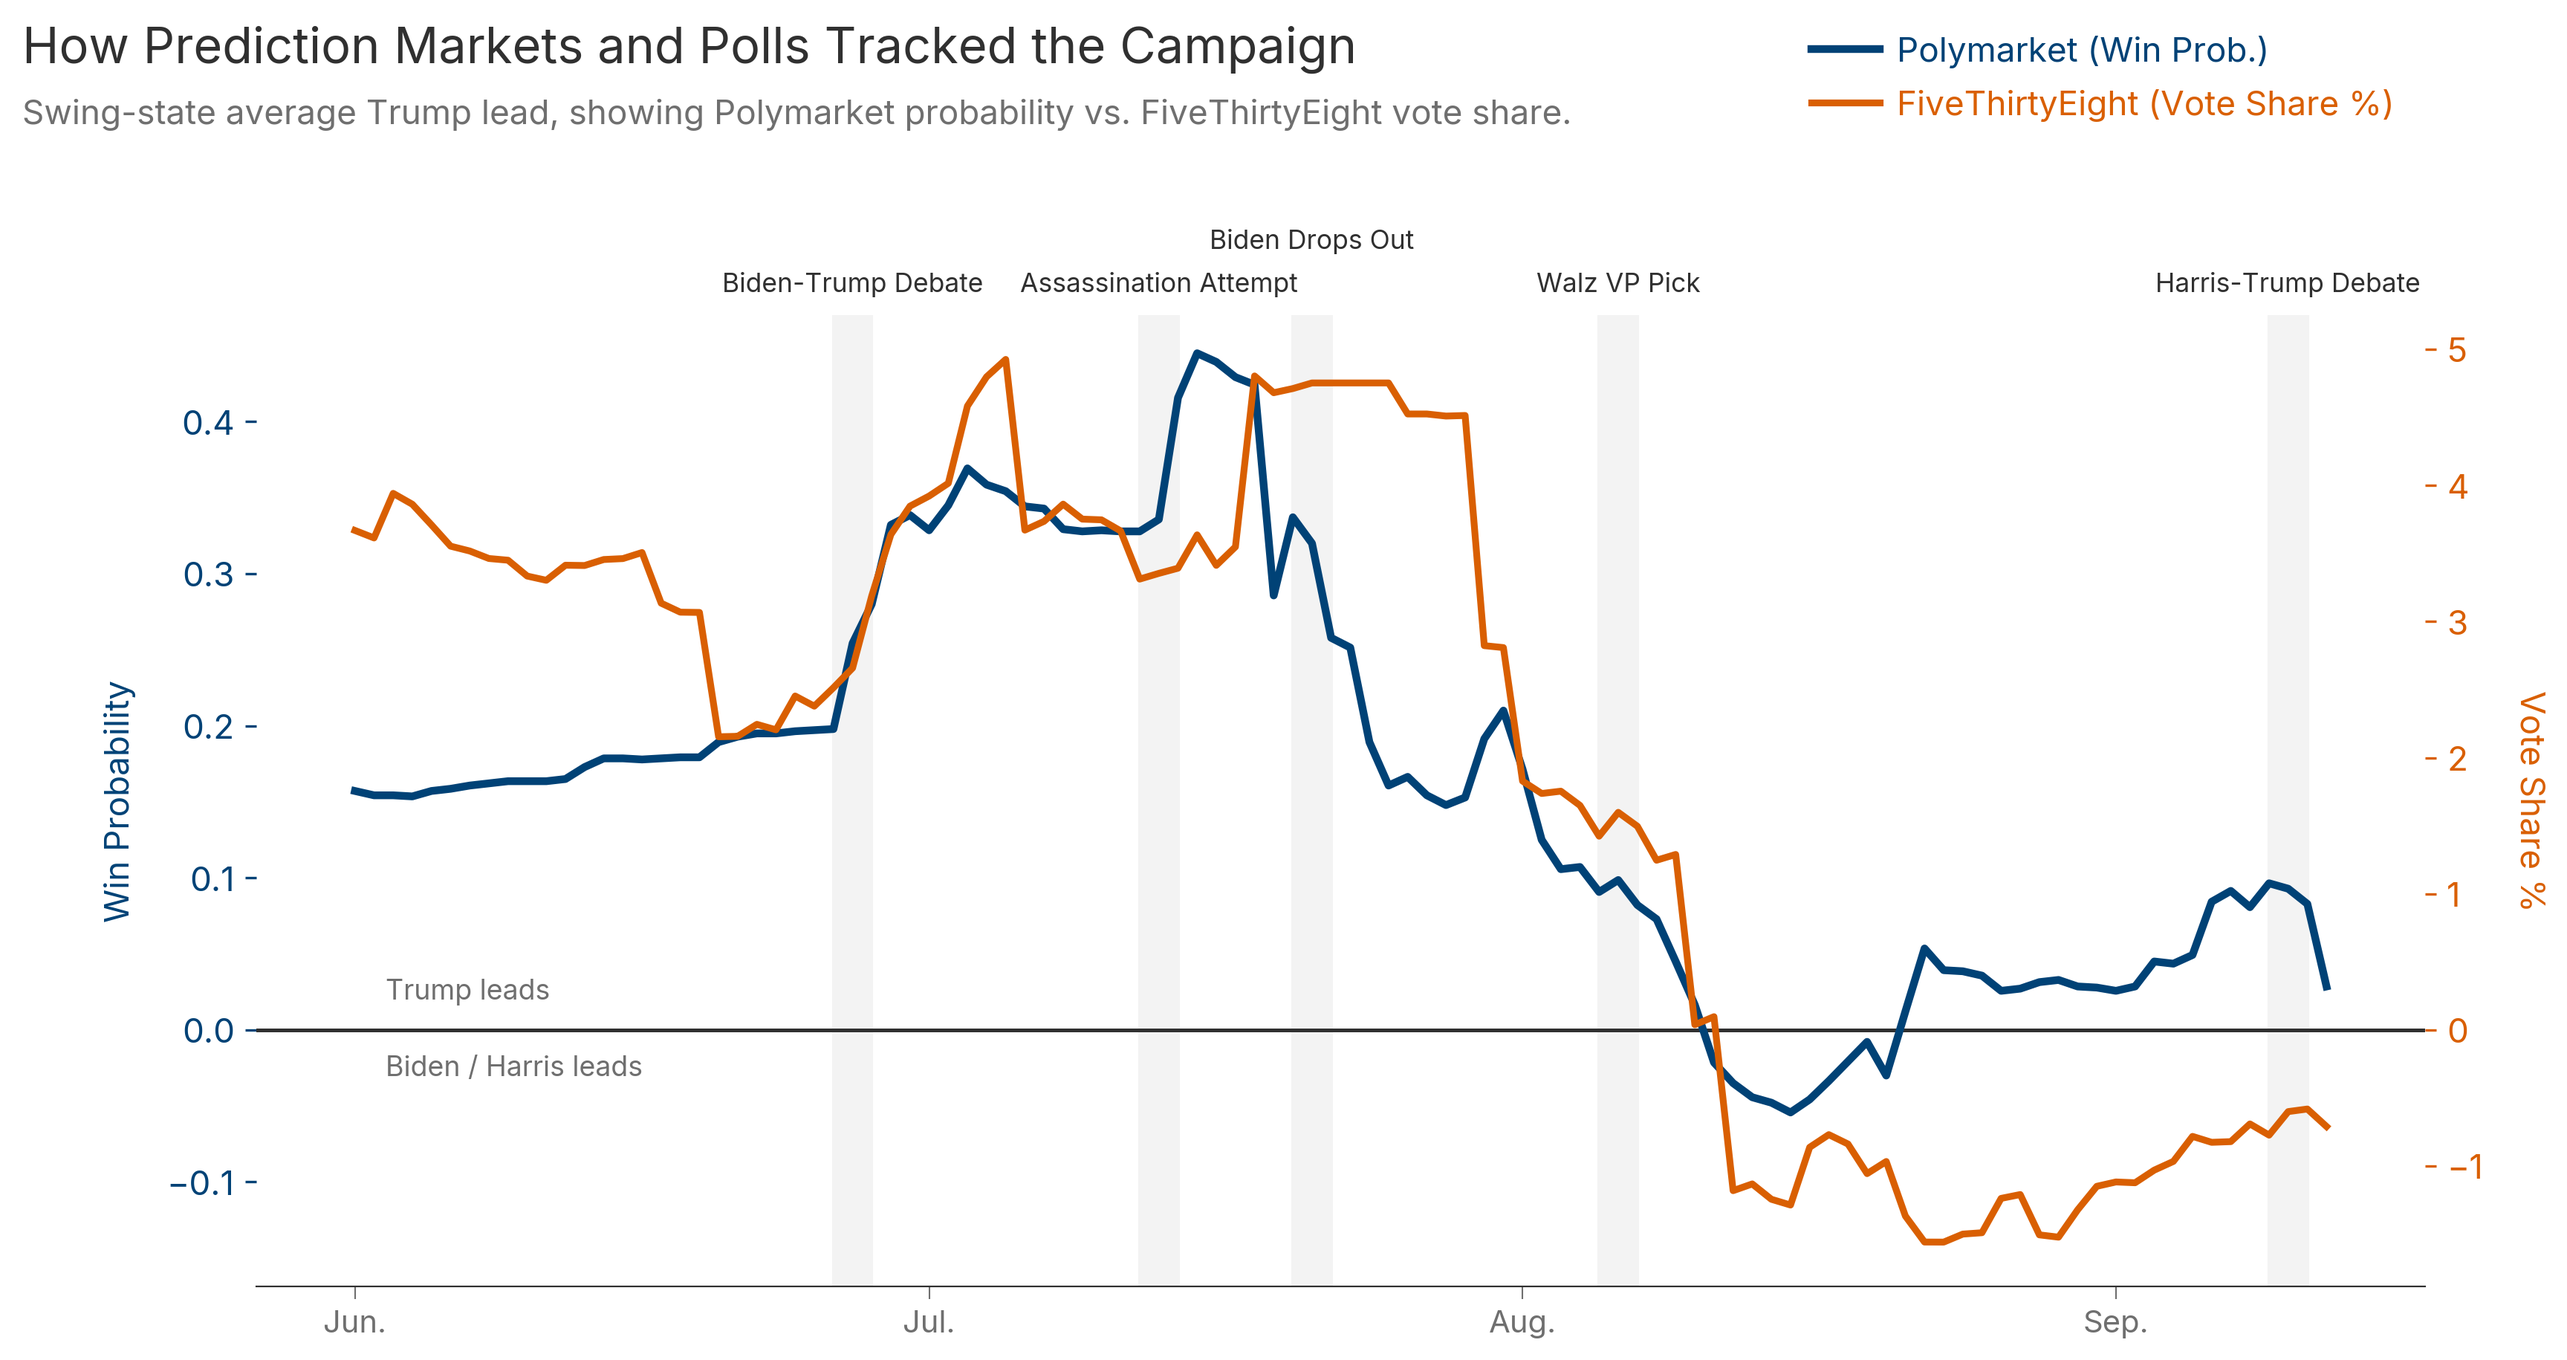
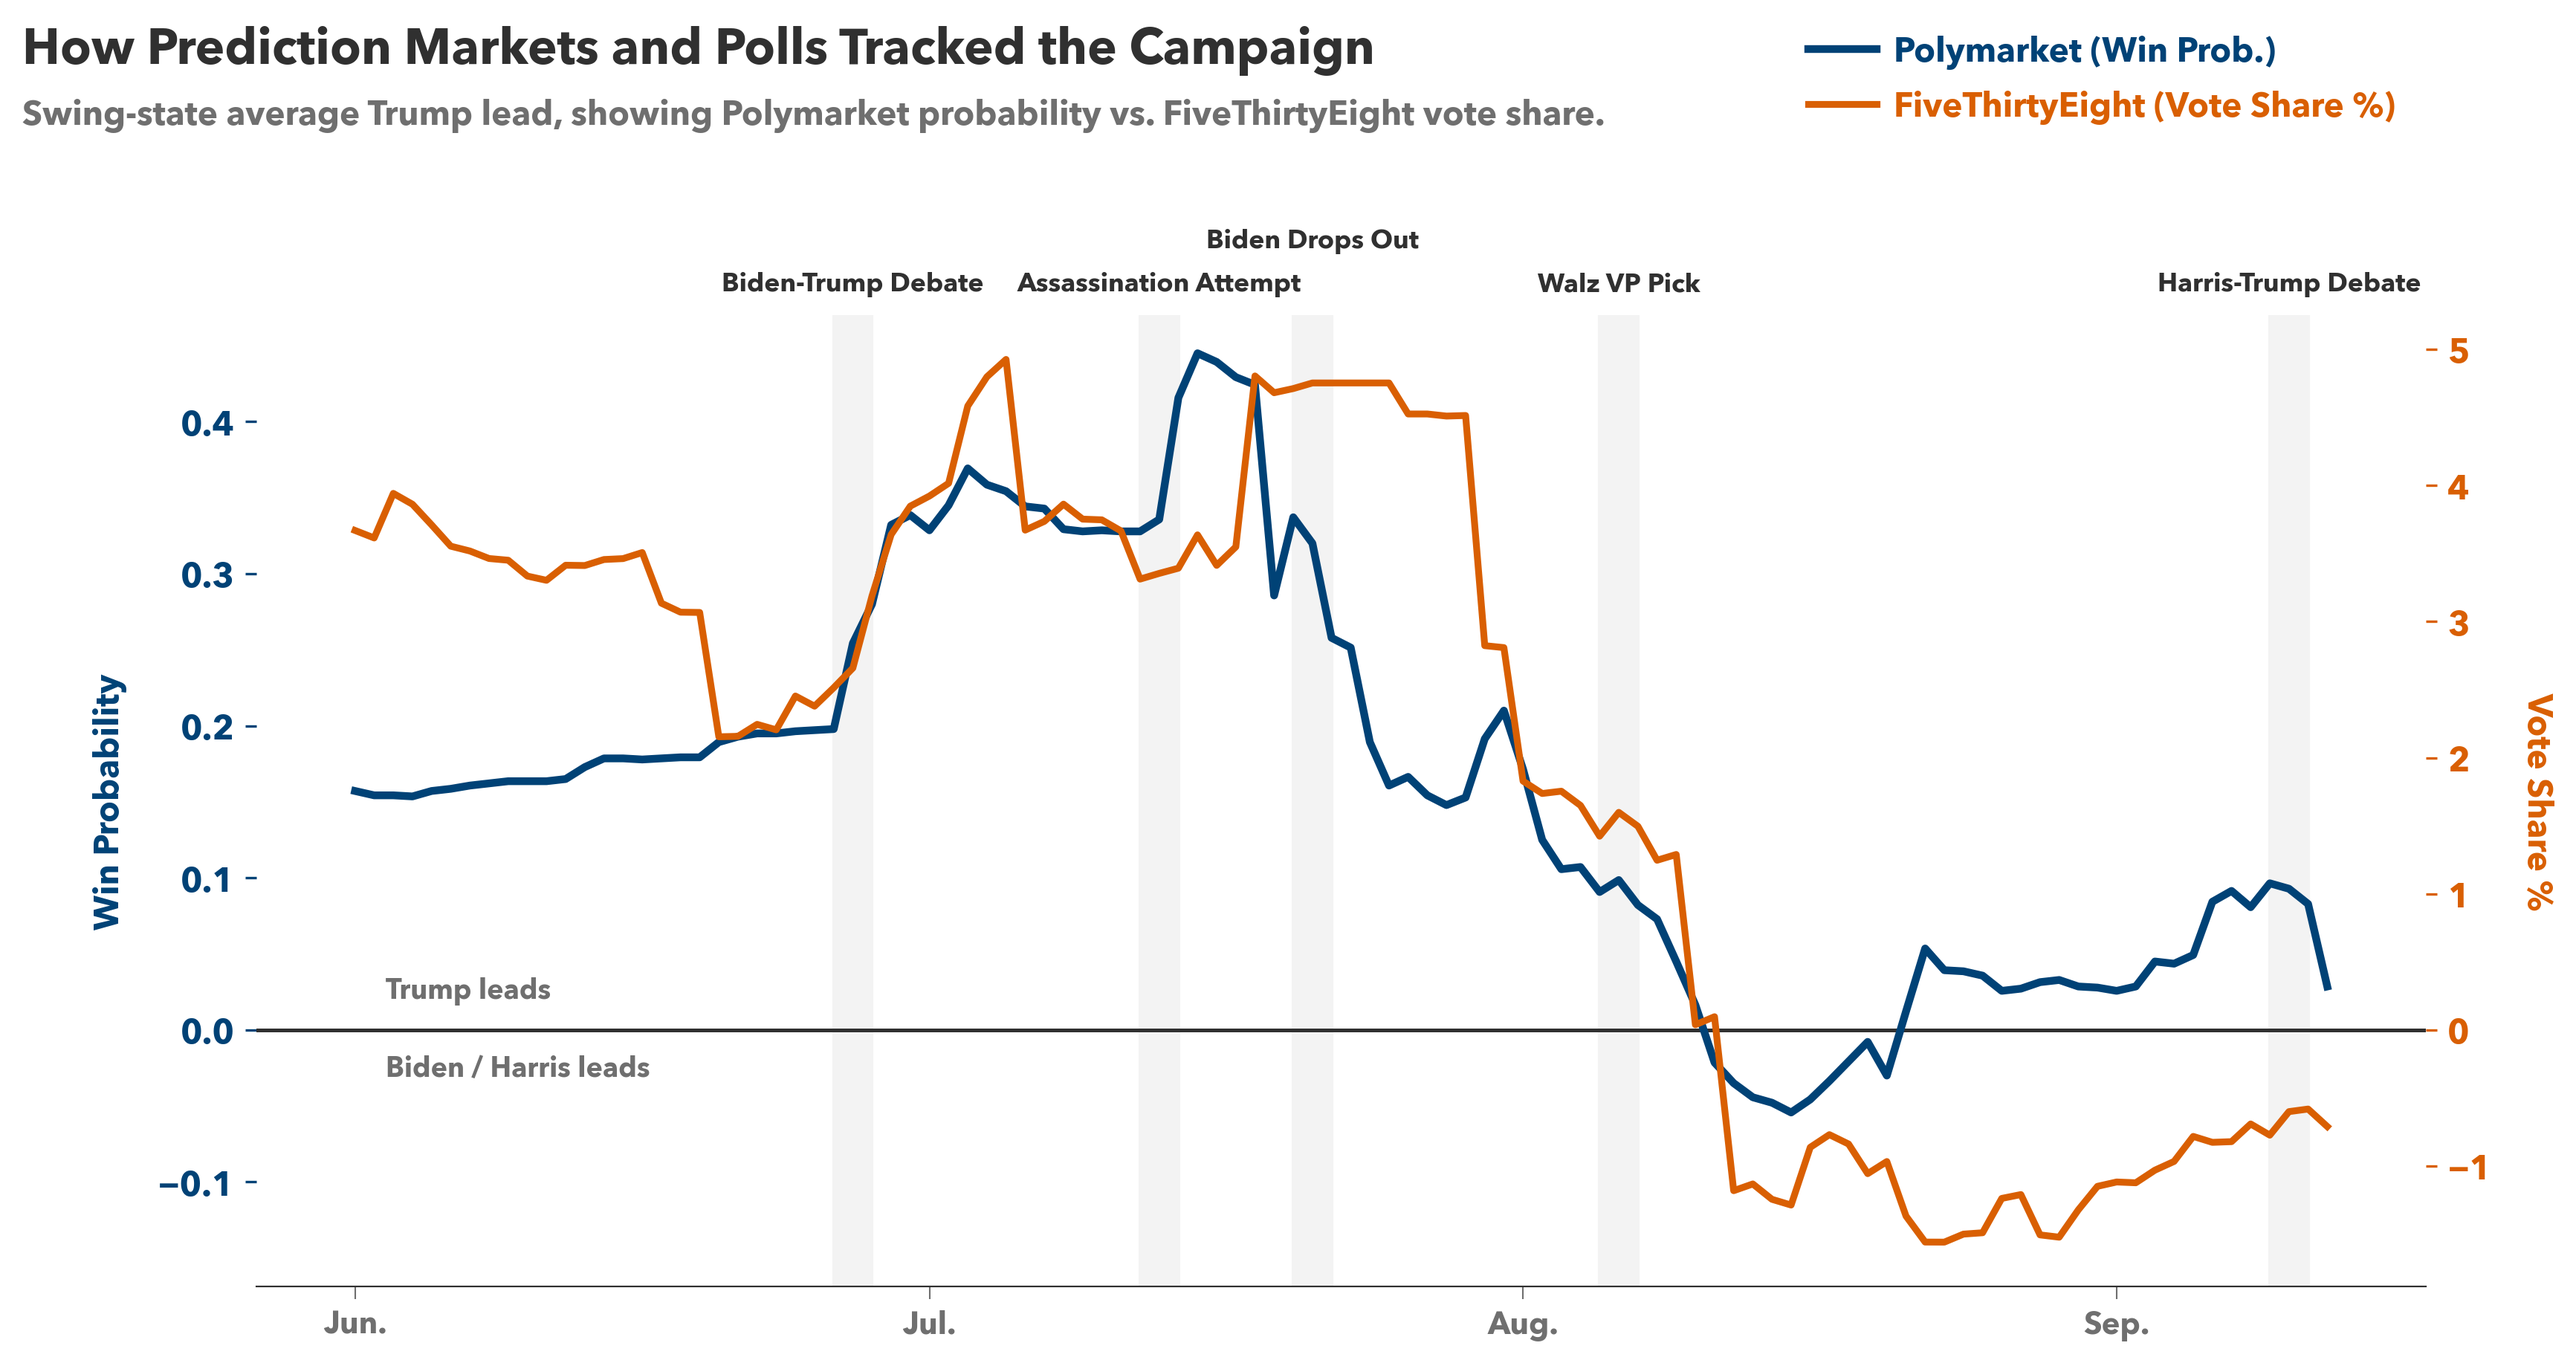
update fonts and style config

diff --git a/src/visualize/event_plots.py b/src/visualize/event_plots.py
@@ -35,54 +35,54 @@ from src.analysis.events.event_response import (
     load_data,
 )
 
-
-@dataclass
-class Theme:
-    PM_COLOR: str = "#004276"
-    F38_COLOR: str = "#D95F02"
-    GRID_COLOR: str = "#E2E2E2"
-    TEXT_MAIN: str = "#303030"
-    TEXT_MUTED: str = "#6F6F6F"
-    EVENT_BAND: str = "#F3F3F3"
-    FONT_STACK: tuple[str, ...] = ("Inter", "DejaVu Sans", "sans-serif")
-    DPI: int = 300
-
-
-THEME = Theme()
 FIGURES_DIR = Path(PROJECT_ROOT) / "figures" / "events"
+
+CLR_PM = "#004276"
+CLR_538 = "#D95F02"
+CLR_GRID = "#E2E2E2"
+CLR_TEXT = "#303030"
+CLR_SUBTEXT = "#6F6F6F"
+CLR_EVENT_BAND = "#F3F3F3"
+
+FONTS = ("Avenir Next", "Calibri", "sans-serif")
+DPI = 300
+
 TIMELINE_START = pd.Timestamp("2024-06-01")
 TIMELINE_END = pd.Timestamp("2024-09-12")
+
 EVENT_LABEL_LEVELS = {
     "Biden Drops Out": 1,
 }
+
 SOURCES = (
-    ("Polymarket", "Polymarket", THEME.PM_COLOR, -0.175),
-    ("538", "FiveThirtyEight", THEME.F38_COLOR, 0.175),
+    ("Polymarket", "Polymarket", CLR_PM, -0.175),
+    ("538", "FiveThirtyEight", CLR_538, 0.175),
 )
 
 
-def apply_style():
-    """Apply shared matplotlib defaults."""
+def configure_plot_style():
+    """Apply a style baseline for all figures."""
+    plt.style.use("default")
     plt.rcParams.update(
         {
-            "figure.dpi": THEME.DPI,
+            "figure.dpi": DPI,
             "figure.facecolor": "white",
             "axes.facecolor": "white",
-            "axes.edgecolor": THEME.TEXT_MAIN,
+            "axes.edgecolor": CLR_TEXT,
             "axes.linewidth": 0.5,
             "axes.axisbelow": True,
             "axes.spines.top": False,
             "axes.spines.right": False,
             "axes.spines.left": False,
-            "text.color": THEME.TEXT_MAIN,
-            "font.family": list(THEME.FONT_STACK),
+            "text.color": CLR_TEXT,
+            "font.family": list(FONTS),
             "font.size": 10,
-            "xtick.color": THEME.TEXT_MUTED,
-            "ytick.color": THEME.TEXT_MUTED,
+            "xtick.color": CLR_SUBTEXT,
+            "ytick.color": CLR_SUBTEXT,
             "xtick.major.size": 4,
             "xtick.major.width": 0.5,
             "ytick.left": False,
-            "grid.color": THEME.GRID_COLOR,
+            "grid.color": CLR_GRID,
             "grid.linewidth": 0.6,
             "legend.frameon": False,
         }
@@ -92,7 +92,9 @@ def apply_style():
 def format_header(fig, title, subtitle):
     """Add a left-aligned title block."""
     fig.text(0.05, 0.98, title, fontsize=16, fontweight="bold", ha="left", va="top")
-    fig.text(0.05, 0.93, subtitle, fontsize=11, color=THEME.TEXT_MUTED, ha="left", va="top")
+    fig.text(
+        0.05, 0.93, subtitle, fontsize=11, color=THEME.TEXT_MUTED, ha="left", va="top"
+    )
 
 
 def _filter_window(series, start, end):
@@ -179,51 +181,68 @@ def plot_event_timeline(pm_swing, p538_swing, show=False):
     fig.subplots_adjust(top=0.78, right=0.82)
 
     ax2 = ax1.twinx()
-    
+
     # Plot the lines and assign labels for the legend
     line1 = ax1.plot(
-        pm_filtered.index, pm_filtered.values, 
-        color=THEME.PM_COLOR, linewidth=2.5, zorder=4, 
-        label="Polymarket (Win Prob.)"
+        pm_filtered.index,
+        pm_filtered.values,
+        color=THEME.PM_COLOR,
+        linewidth=2.5,
+        zorder=4,
+        label="Polymarket (Win Prob.)",
     )
     line2 = ax2.plot(
-        p538_filtered.index, p538_filtered.values, 
-        color=THEME.F38_COLOR, linewidth=2.2, zorder=3, 
-        label="FiveThirtyEight (Vote Share %)"
+        p538_filtered.index,
+        p538_filtered.values,
+        color=THEME.F38_COLOR,
+        linewidth=2.2,
+        zorder=3,
+        label="FiveThirtyEight (Vote Share %)",
     )
     ax2.spines["right"].set_visible(False)
 
     # Color-code tick labels and add explicit axis labels
     ax1.tick_params(axis="y", colors=THEME.PM_COLOR, labelsize=11)
-    ax1.set_ylabel("Win Probability", color=THEME.PM_COLOR, 
-                   fontweight="bold", fontsize=11, labelpad=10)
-    
+    ax1.set_ylabel(
+        "Win Probability",
+        color=THEME.PM_COLOR,
+        fontweight="bold",
+        fontsize=11,
+        labelpad=10,
+    )
+
     ax2.tick_params(axis="y", colors=THEME.F38_COLOR, labelsize=11)
-    ax2.set_ylabel("Vote Share %", color=THEME.F38_COLOR, 
-                   fontweight="bold", fontsize=11, rotation=-90, labelpad=20)
+    ax2.set_ylabel(
+        "Vote Share %",
+        color=THEME.F38_COLOR,
+        fontweight="bold",
+        fontsize=11,
+        rotation=-90,
+        labelpad=20,
+    )
 
     _align_dual_axes(ax1, ax2)
     ax1.axhline(0, color=THEME.TEXT_MAIN, linewidth=1.2, zorder=2)
 
     lines = line1 + line2
     labels = [l.get_label() for l in lines]
-    
+
     leg = ax1.legend(
-        lines, labels, 
-        loc="upper right", 
-        bbox_to_anchor=(1.0, 1.32), 
-        ncol=1, 
-        frameon=False, 
+        lines,
+        labels,
+        loc="upper right",
+        bbox_to_anchor=(1.0, 1.32),
+        ncol=1,
+        frameon=False,
         fontsize=11,
         handletextpad=0.5,
-        labelspacing=0.6
+        labelspacing=0.6,
     )
-    
+
     # Color-code the legend text to perfectly match the lines
     for text, color in zip(leg.get_texts(), [THEME.PM_COLOR, THEME.F38_COLOR]):
         text.set_color(color)
         text.set_fontweight("bold")
-    # --------------------------------------------------------------
 
     if not pm_filtered.empty:
         start_date = pm_filtered.index.min()
@@ -231,7 +250,7 @@ def plot_event_timeline(pm_swing, p538_swing, show=False):
         start_date = p538_filtered.index.min()
     else:
         start_date = TIMELINE_START
-        
+
     ax1.annotate(
         "Trump leads",
         xy=(start_date, 0),
@@ -331,8 +350,17 @@ def plot_reaction_scoreboard(summary, show=False):
     ax.grid(False)
 
     legend_elements = [
-        Patch(facecolor=THEME.TEXT_MAIN, edgecolor=THEME.TEXT_MAIN, label="Expected direction"),
-        Patch(facecolor="white", edgecolor=THEME.TEXT_MAIN, linewidth=1.4, label="Unexpected direction"),
+        Patch(
+            facecolor=THEME.TEXT_MAIN,
+            edgecolor=THEME.TEXT_MAIN,
+            label="Expected direction",
+        ),
+        Patch(
+            facecolor="white",
+            edgecolor=THEME.TEXT_MAIN,
+            linewidth=1.4,
+            label="Unexpected direction",
+        ),
         Line2D([0], [0], color=THEME.PM_COLOR, lw=4, label="Polymarket"),
         Line2D([0], [0], color=THEME.F38_COLOR, lw=4, label="FiveThirtyEight"),
     ]
@@ -362,7 +390,9 @@ def _steepest_drop_day(series):
 
 def plot_indexed_event_study(pm_swing, p538_swing, show=False):
     """Plot response timing around Biden dropping out."""
-    hero_date = next(event["date"] for event in EVENTS if event["name"] == "Biden Drops Out")
+    hero_date = next(
+        event["date"] for event in EVENTS if event["name"] == "Biden Drops Out"
+    )
     pm_window = compute_raw_indexed_window(pm_swing, hero_date, pre_days=1, scale=100)
     p538_window = compute_raw_indexed_window(p538_swing, hero_date, pre_days=1, scale=1)
 
@@ -371,8 +401,16 @@ def plot_indexed_event_study(pm_swing, p538_swing, show=False):
     ax1.grid(axis="y", alpha=0.5)
 
     ax2 = ax1.twinx()
-    ax1.step(pm_window.index, pm_window.values, where="post", color=THEME.PM_COLOR, linewidth=2.5)
-    ax2.plot(p538_window.index, p538_window.values, color=THEME.F38_COLOR, linewidth=2.3)
+    ax1.step(
+        pm_window.index,
+        pm_window.values,
+        where="post",
+        color=THEME.PM_COLOR,
+        linewidth=2.5,
+    )
+    ax2.plot(
+        p538_window.index, p538_window.values, color=THEME.F38_COLOR, linewidth=2.3
+    )
     ax2.spines["right"].set_visible(False)
 
     _align_dual_axes(ax1, ax2)
@@ -381,37 +419,37 @@ def plot_indexed_event_study(pm_swing, p538_swing, show=False):
     ax1.axvline(0, color=THEME.TEXT_MAIN, linewidth=1, linestyle=":", zorder=2)
     ax1.axhline(0, color=THEME.TEXT_MAIN, linewidth=1, zorder=2)
     ax1.text(
-        0,       # x-coordinate in data space (Day 0)
-        0.04,    # y-coordinate in axes space (4% up from the bottom spine)
-        "Biden withdraws", 
-        color=THEME.TEXT_MAIN, 
+        0,  # x-coordinate in data space (Day 0)
+        0.04,  # y-coordinate in axes space (4% up from the bottom spine)
+        "Biden withdraws",
+        color=THEME.TEXT_MAIN,
         fontsize=9,
-        ha="center", 
+        ha="center",
         va="bottom",
-        transform=ax1.get_xaxis_transform(), # Blends data x-coords and fractional y-coords
-        bbox=dict(facecolor="white", edgecolor="none", pad=4), # The invisible mask
-        zorder=3 # Ensures the text sits above the axvline (which is zorder=2)
+        transform=ax1.get_xaxis_transform(),  # Blends data x-coords and fractional y-coords
+        bbox=dict(facecolor="white", edgecolor="none", pad=4),  # The invisible mask
+        zorder=3,  # Ensures the text sits above the axvline (which is zorder=2)
     )
 
     # Left Axis Title (Polymarket)
     ax1.set_ylabel(
-        "Polymarket\n(percentage points)", 
-        color=THEME.PM_COLOR, 
-        fontsize=11, 
+        "Polymarket\n(percentage points)",
+        color=THEME.PM_COLOR,
+        fontsize=11,
         fontweight="bold",
         linespacing=1.4,
-        labelpad=10
+        labelpad=10,
     )
 
     # Right Axis Title (FiveThirtyEight)
     ax2.set_ylabel(
-        "FiveThirtyEight\n(vote share points)", 
-        color=THEME.F38_COLOR, 
-        fontsize=11, 
+        "FiveThirtyEight\n(vote share points)",
+        color=THEME.F38_COLOR,
+        fontsize=11,
         fontweight="bold",
         linespacing=1.4,
         rotation=270,  # Flips text so the baseline points towards the axis
-        labelpad=40    # Extra padding to clear the tick labels
+        labelpad=40,  # Extra padding to clear the tick labels
     )
 
     pm_lag = _steepest_drop_day(pm_window)
@@ -423,7 +461,9 @@ def plot_indexed_event_study(pm_swing, p538_swing, show=False):
             "",
             xy=(p538_lag, y_bracket),
             xytext=(pm_lag, y_bracket),
-            arrowprops=dict(arrowstyle="|-|,widthA=0.2,widthB=0.2", color=THEME.TEXT_MAIN, lw=1.2),
+            arrowprops=dict(
+                arrowstyle="|-|,widthA=0.2,widthB=0.2", color=THEME.TEXT_MAIN, lw=1.2
+            ),
         )
         ax1.annotate(
             f"{int(p538_lag - pm_lag)}-day lag",
@@ -438,7 +478,14 @@ def plot_indexed_event_study(pm_swing, p538_swing, show=False):
         )
 
         pm_value = pm_window.loc[pm_lag]
-        ax1.plot([pm_lag, pm_lag], [y_bracket, pm_value], color=THEME.PM_COLOR, linestyle=":", lw=1.2, alpha=0.7)
+        ax1.plot(
+            [pm_lag, pm_lag],
+            [y_bracket, pm_value],
+            color=THEME.PM_COLOR,
+            linestyle=":",
+            lw=1.2,
+            alpha=0.7,
+        )
         ax1.plot([pm_lag], [pm_value], marker="o", color=THEME.PM_COLOR, markersize=5)
 
         p538_value = p538_window.loc[p538_lag]
@@ -451,7 +498,9 @@ def plot_indexed_event_study(pm_swing, p538_swing, show=False):
             lw=1.2,
             alpha=0.7,
         )
-        ax2.plot([p538_lag], [p538_value], marker="o", color=THEME.F38_COLOR, markersize=5)
+        ax2.plot(
+            [p538_lag], [p538_value], marker="o", color=THEME.F38_COLOR, markersize=5
+        )
 
     ax1.set_xlabel("Days from event")
 

diff --git a/src/visualize/accuracy_plots.py b/src/visualize/accuracy_plots.py
@@ -61,8 +61,7 @@ def configure_plot_style():
     plt.style.use("default")
     plt.rcParams.update(
         {
-            "font.family": "sans-serif",
-            "font.sans-serif": ["Inter", "DejaVu Sans", "sans-serif"],
+            "font.family": ["Avenir Next", "Calibri", "sans-serif"],
             "figure.dpi": DPI,
             "figure.facecolor": "white",
             "axes.facecolor": "white",
